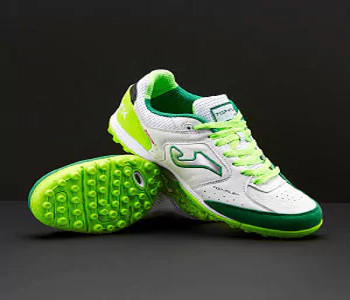
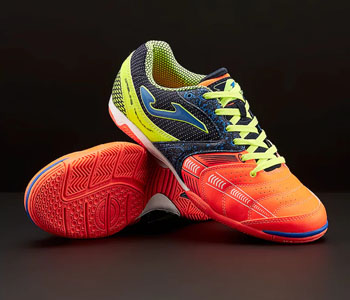
added correct images for all surfaces

diff --git a/index.html b/index.html
@@ -148,7 +148,7 @@
       <div class="row">
         <div class="col-lg-4 col-md-6 mb-4">
           <div class="choose-surface">
-            <img src="images/futsal.jpg">
+            <img src="images/firmground.jpg">
             <div class="choose-surface-inner">
               <h4>FIRM GROUND</h4>
               <div class="surface-description">
@@ -160,7 +160,7 @@
         </div>
         <div class="col-lg-4 col-md-6 mb-4">
           <div class="choose-surface">
-            <img src="images/futsal.jpg">
+            <img src="images/softground.jpg">
             <div class="choose-surface-inner">
               <h4>SOFT GROUND</h4>
               <div class="surface-description">
@@ -172,7 +172,7 @@
         </div>
         <div class="col-lg-4 col-md-6 mb-4">
           <div class="choose-surface">
-            <img src="images/futsal.jpg">
+            <img src="images/mixedsole.jpg">
             <div class="choose-surface-inner">
               <h4>MIXED SOLE</h4>
               <div class="surface-description">
@@ -184,7 +184,7 @@
         </div>
         <div class="col-lg-4 col-md-6 mb-4">
           <div class="choose-surface">
-            <img src="images/futsal.jpg">
+            <img src="images/artificialgrass.jpg">
             <div class="choose-surface-inner">
               <h4>ARTIFICIAL GRASS</h4>
               <div class="surface-description">
@@ -196,7 +196,7 @@
         </div>
         <div class="col-lg-4 col-md-6 mb-4">
           <div class="choose-surface">
-            <img src="images/futsal.jpg">
+            <img src="images/astroturf.jpg">
             <div class="choose-surface-inner">
               <h4>ASTROTURF / 3G</h4>
               <div class="surface-description">
